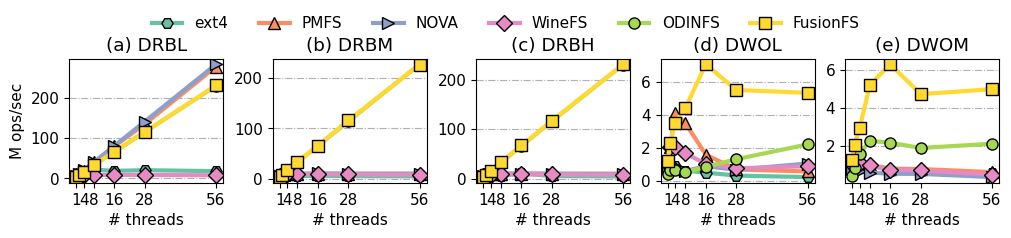
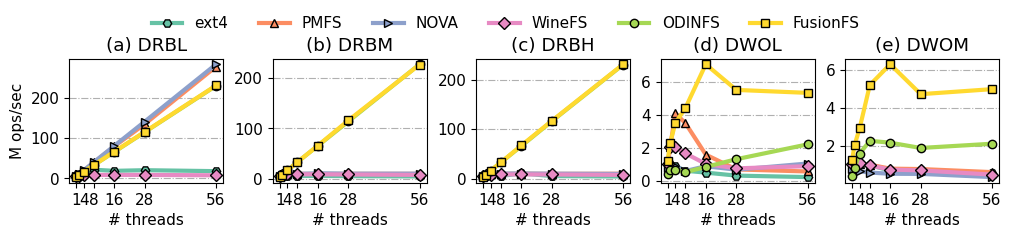
Update figure style

diff --git a/eval/fig/application.py b/eval/fig/application.py
@@ -38,7 +38,7 @@ labels = {
     "FusionFS": "FusionFS"
 }
 
-hat = ['|//','-\\\\','|\\\\','-//',"--","\\\\",'//',"xx"]
+# hat = ['|//','-\\\\','|\\\\','-//',"--","\\\\",'//',"xx"]
 markers = ['H', '^', '>', 'D', 'o', 's', 'p', 'x']
 
 i = 0
@@ -88,7 +88,7 @@ ax1.set_ylabel('Throughput (M ops/sec)')
 ax1.set_title('(a) Filebench OLTP')
 ax1.grid(axis='y', linestyle='-.')
 ax1.set_xticks([1, 4, 8, 16, 28, 56])
-ax1.legend(loc='upper center', bbox_to_anchor=(0.5, 1.6), ncol=2, frameon=False)
+ax1.legend(loc='upper center', bbox_to_anchor=(0.5, 1.6), ncol=2)
 
 
 # 读取CSV文件
@@ -113,9 +113,10 @@ width1 = 0.1  # 柱状图的宽度
 fusionfs_performance = None
 other_performances = []
 
+ax2.set_axisbelow(True)
 for i, fs in enumerate(order):
     performance = tpcc_performance[i] / 1000
-    ax2.bar(x1 + i * width1 - (len(order) / 2 - 0.5) * width1, [performance], width1, label=labels[fs], color=c[i], edgecolor='black', lw=1.2, hatch=hat[i])
+    ax2.bar(x1 + i * width1 - (len(order) / 2 - 0.5) * width1, [performance], width1, label=labels[fs], color=c[i], edgecolor='black', lw=1.2)
     if labels[fs] == 'FusionFS':
         fusionfs_performance = performance
     else:
@@ -142,14 +143,15 @@ ax2.set_xticklabels(['TPC-C'])
 ax2.grid(axis='y', linestyle='-.')
 ax2.set_xlim(-0.8, 0.8)
 # ax2.legend()
-ax2.legend(loc='upper center', bbox_to_anchor=(0.5, 1.6), ncol=2, frameon=False)
+ax2.legend(loc='upper center', bbox_to_anchor=(0.5, 1.6), ncol=2)
 
 # 右子图：KyotoCabinet 和 LMDB
 x2 = np.arange(2)  # x 轴的位置，2个负载
 width2 = 0.1  # 柱状图的宽度
 
+ax3.set_axisbelow(True)
 for i, fs in enumerate(order):
-    ax3.bar(x2 + i * width2 - (len(order) / 2 - 0.5) * width2, [kyoto_performance[i] / 1000, lmdb_performance[i] / 1000], width2, label=labels[fs], color=c[i], edgecolor='black', lw=1.2, hatch=hat[i])
+    ax3.bar(x2 + i * width2 - (len(order) / 2 - 0.5) * width2, [kyoto_performance[i] / 1000, lmdb_performance[i] / 1000], width2, label=labels[fs], color=c[i], edgecolor='black', lw=1.2)
 
 # ax3.set_xlabel('Workload')
 ax3.set_ylabel('Throughput (K ops/sec)')
@@ -158,7 +160,7 @@ ax3.set_xticks(x2)
 ax3.set_xticklabels(['Kyoto Cabinet', 'LMDB'])
 ax3.grid(axis='y', linestyle='-.')
 # ax3.legend(title='File System')
-ax3.legend(loc='upper center', bbox_to_anchor=(0.5, 1.6), ncol=2, frameon=False)
+ax3.legend(loc='upper center', bbox_to_anchor=(0.5, 1.6), ncol=2)
 
 # 调整布局
 plt.tight_layout()

diff --git a/eval/fig/fio-vary-zipf.py b/eval/fig/fio-vary-zipf.py
@@ -8,12 +8,12 @@ old_fontsize = plt.rcParams['font.size']
 plt.rcParams['font.size'] = old_fontsize * 1.1
 
 # 定义颜色和柱子宽度
-hat = ['|//','-\\\\','|\\\\','-//',"--","\\\\",'//',"xx"]
+# hat = ['|//','-\\\\','|\\\\','-//',"--","\\\\",'//',"xx"]
 c = np.array([[102, 194, 165], [252, 141, 98], [141, 160, 203], 
               [231, 138, 195], [166, 216, 84], [255, 217, 47],
               [229, 196, 148], [179, 179, 179]])
 c = c / 255
-width = 0.15
+width = 0.225
 
 # 文件系统和zipf分布
 filesystems = ["ext4", "pmfs", "nova", "winefs", "odinfs", "FusionFS"]
@@ -25,7 +25,8 @@ labels = {
     "odinfs": "ODINFS",
     "FusionFS": "FusionFS"
 }
-zipf_distributions = ["", "60-40", "70-30", "80-20", "90-10"]
+# zipf_distributions = ["", "60-40", "70-30", "80-20", "90-10"]
+zipf_distributions = ["", "70-30", "90-10"]
 zipf_labels = {
     "": "50/50 (θ=0)",
     "60-40": "60/40 (θ=0.44)",
@@ -83,9 +84,10 @@ for i, (iosize, row, col) in enumerate([("4K", rows[0], cols[0]), ("2M", rows[0]
                                         ("4K", rows[0], cols[1]), ("2M", rows[0], cols[1]), ("4K", rows[1], cols[1]), ("2M", rows[1], cols[1]),
                                         ("4K", rows[0], cols[2]), ("2M", rows[0], cols[2]), ("4K", rows[1], cols[2]), ("2M", rows[1], cols[2])]):
     ax = axs[i // 4, i % 4]
+    ax.set_axisbelow(True)
     for j, zipf in enumerate(zipf_distributions):
         y = [throughput_data[fs][zipf].get((iosize, row, col), 0) for fs in filesystems]
-        ax.bar(x + j * width, y, width, label=zipf_labels[zipf], color=c[j], edgecolor='black', lw=1.2, hatch=hat[j])
+        ax.bar(x + j * width, y, width, label=zipf_labels[zipf], color=c[j], edgecolor='black', lw=1.2)
     
     maxes = []
     avgs = []
@@ -107,7 +109,7 @@ for i, (iosize, row, col) in enumerate([("4K", rows[0], cols[0]), ("2M", rows[0]
         ax.set_title(f'{iosize} write, {"1 thread" if row == 0 else "8 threads"}')
     if i // 4 == 2:
         ax.set_xticks(x + width * (len(zipf_distributions) - 1) / 2)
-        ax.set_xticklabels(labels.values(), rotation=45)
+        ax.set_xticklabels(labels.values(), rotation=45, ha='right')
     else: # no x-axis labels
         ax.set_xticks([])
     if i % 4 == 0:

diff --git a/eval/fig/breakdown.py b/eval/fig/breakdown.py
@@ -1,7 +1,7 @@
 import matplotlib.pyplot as plt
 import numpy as np
 
-hat = ['|//','-\\\\','|\\\\','-//',"--","\\\\",'//',"xx"]
+# hat = ['|//','-\\\\','|\\\\','-//',"--","\\\\",'//',"xx"]
 markers = ['H', '^', '>', 'D', 'o', 's', 'p', 'x']
 c = np.array([[102, 194, 165], [252, 141, 98], [141, 160, 203], 
         [231, 138, 195], [166,216,84], [255, 217, 47],
@@ -56,7 +56,8 @@ fig, (ax1, ax2) = plt.subplots(1, 2, figsize=(8, 3), layout="constrained")
 # Plot the first subplot
 width = 0.35  # width of the bars
 x = range(len(x_values))
-ax1.bar(x, y_values_1_uniform, width, label="uniform", color=c[0], edgecolor='black', lw=1.2, hatch=hat[0])
+ax1.set_axisbelow(True)
+ax1.bar(x, y_values_1_uniform, width, label="uniform", color=c[0], edgecolor='black', lw=1.2)
 # ax1.bar([i + width for i in x], [val/1000000 for val in y_values_1_zipf], width, label="zipf", alpha=0.5)
 ax1.set_ylabel("Throughput (GiB/s)")
 # ax1.set_xticks([i + width/2 for i in x])
@@ -66,7 +67,8 @@ ax1.set_xticklabels(x_values, rotation=45, ha="right")
 ax1.grid(axis='y', linestyle='-.')
 
 # Plot the second subplot
-ax2.bar(x, y_values_2_uniform, width, label="uniform", color=c[0], edgecolor='black', lw=1.2, hatch=hat[0])
+ax2.set_axisbelow(True)
+ax2.bar(x, y_values_2_uniform, width, label="uniform", color=c[0], edgecolor='black', lw=1.2)
 # ax2.bar([i + width for i in x], [val/1024 for val in y_values_2_zipf], width, label="zipf", alpha=0.5)
 ax2.set_ylabel("I/O amplification")
 # ax2.set_xticks([i + width/2 for i in x])

diff --git a/eval/fig/sensitivity.py b/eval/fig/sensitivity.py
@@ -150,7 +150,7 @@ def plot_threshold(ax, data):
     ax.set_xlabel('I/O size (KB)')
     ax.set_ylabel('Throughput (GiB/s)')
     # ax.legend()
-    ax.legend(loc='upper center', bbox_to_anchor=(0.5, 1.6), ncol=2, frameon=False)
+    ax.legend(loc='upper center', bbox_to_anchor=(0.5, 1.6), ncol=2)
     ax.grid(axis='y', linestyle='-.')
     ax.set_title('(a) 4K uniform rand write')
 
@@ -164,7 +164,7 @@ def plot_fig9(ax, data):
     ax.set_xlabel('# threads')
     ax.set_ylabel('Throughput (GiB/s)')
     # ax.legend(ncol=2)
-    ax.legend(loc='upper center', bbox_to_anchor=(0.5, 1.6), ncol=2, frameon=False)
+    ax.legend(loc='upper center', bbox_to_anchor=(0.5, 1.6), ncol=2)
     ax.grid(axis='y', linestyle='-.')
     ax.set_xticks([1, 4, 8, 16, 28, 56])
     ax.set_title('(b) 4K hot write')
@@ -181,7 +181,7 @@ def plot_numa(ax, data):
     ax.set_xlabel('File size (MB)')
     ax.set_ylabel('PM writes (GB)')
     # ax.legend()
-    ax.legend(loc='upper center', bbox_to_anchor=(0.5, 1.35), ncol=2, frameon=False)
+    ax.legend(loc='upper center', bbox_to_anchor=(0.5, 1.35), ncol=2)
     ax.grid(axis='y', linestyle='-.')
     ax.set_xticks([8, 16, 24, 32, 40])
     ax.set_title('(c) 4K uniform rand write')

diff --git a/eval/benchmark/fxmark/bin/plotter.py b/eval/benchmark/fxmark/bin/plotter.py
@@ -367,7 +367,7 @@ class Plotter(object):
                     elif data.shape[1] == 4:
                         x, y, media_read, media_write = data[:, 0], data[:, 1], data[:, 2], data[:, 3]
                     y = y / divider
-                    ax.plot(x, y, label=label_fs(fs), color=c[0], marker=markers[0], lw=3, mec='black', markersize=8, alpha=1)
+                    ax.plot(x, y, label=label_fs(fs), color=c[0], marker=markers[0], lw=3, mec='black', alpha=1)
 
                 for j, fs in enumerate(fs_list[1:]):
                     # if np.any(dat[0] % 1 != 0): # skewed, bar plot
@@ -385,7 +385,7 @@ class Plotter(object):
                         elif data.shape[1] == 4:
                             x, y, media_read, media_write = data[:, 0], data[:, 1], data[:, 2], data[:, 3]
                         y = y / divider
-                        ax.plot(x, y, label=label_fs(fs), color=c[j+1], marker=markers[j+1], lw=3, mec='black', markersize=8, alpha=1)
+                        ax.plot(x, y, label=label_fs(fs), color=c[j+1], marker=markers[j+1], lw=3, mec='black', alpha=1)
                 
                 title = bench.replace("_", " ")
                 if title == "fio zipf sync":
